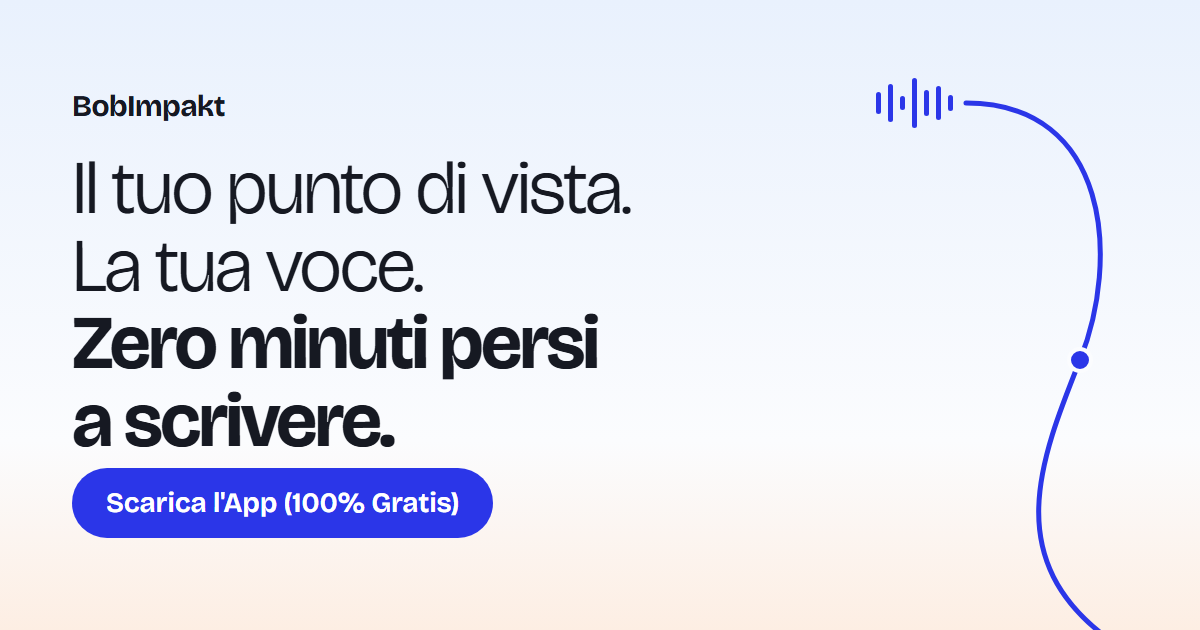
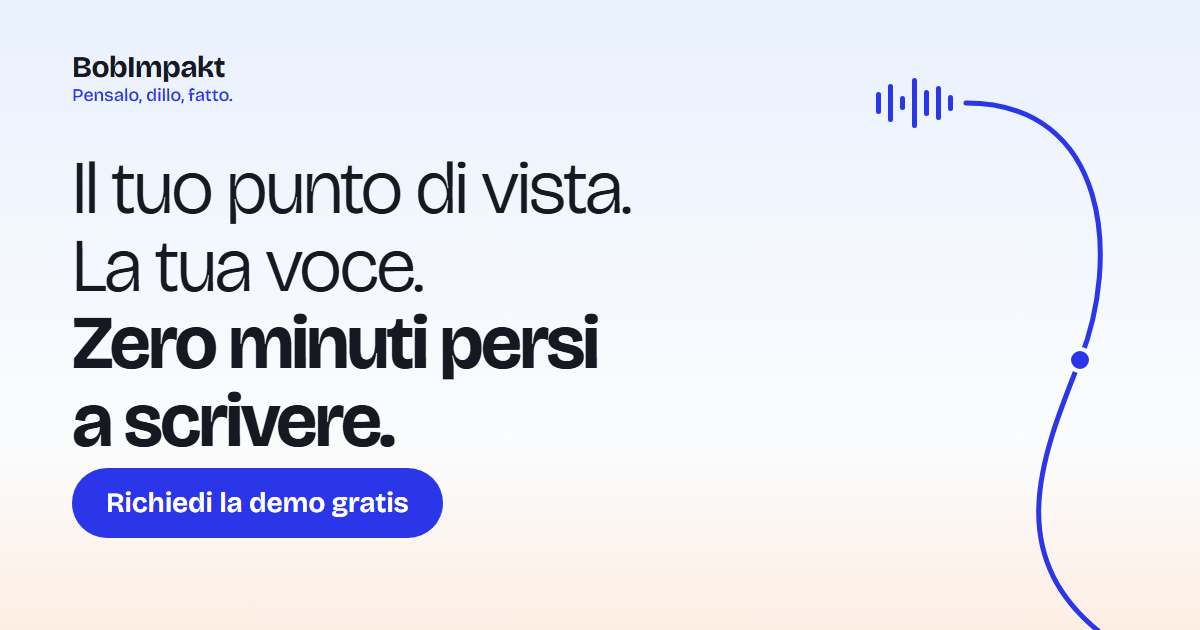
Aggiorna l'anteprima del sito Racconta

Changed region(s): [[0.0925, 0.7238, 0.4317, 0.8746], [0.0617, 0.0905, 0.185, 0.2111]]

diff --git a/index.html b/index.html
@@ -28,13 +28,14 @@
 </svg>
 
 <header class="barra">
-  <a class="marchio" href="./" aria-label="BobImpakt, pagina iniziale">
-    <!-- LOGO: quando arriva il file, sostituire la scritta con <img src="assets/img/logo-bobimpakt.svg" alt="BobImpakt" height="28"> -->
-    BobImpakt
+  <a class="marchio" href="./" aria-label="BobImpakt, Pensalo, dillo, fatto. Pagina iniziale">
+    <!-- LOGO: quando arriva il file, sostituire la scritta BobImpakt con <img src="assets/img/logo-bobimpakt.svg" alt="BobImpakt" height="26"> e lasciare il claim sotto -->
+    <span class="marchio__nome">BobImpakt</span>
+    <span class="marchio__claim">Pensalo, dillo, fatto.</span>
   </a>
   <nav class="barra__nav" aria-label="Pagina">
     <a href="#come-funziona">Come funziona</a>
-    <a class="barra__azione" href="#scarica">Scarica l'App</a>
+    <a class="barra__azione" href="#scarica">Richiedi la demo</a>
   </nav>
 </header>
 
@@ -59,13 +60,13 @@
           <span class="campo__eti">Il tuo numero WhatsApp</span>
           <input name="telefono" type="tel" autocomplete="tel" required maxlength="40" placeholder="Numero WhatsApp">
         </label>
-        <button class="tasto" type="submit">Scarica l'App (100% Gratis)</button>
+        <button class="tasto" type="submit">Richiedi la demo gratis</button>
       </div>
       <label class="modulo__consenso">
         <input name="consenso" type="checkbox" required value="1">
-        <span>Ho letto <a href="#privacy">come uso questi dati</a>: solo per mandarti il link dell'app.</span>
+        <span>Ho letto <a href="#privacy">come uso questi dati</a>: solo per contattarti per la demo.</span>
       </label>
-      <p class="modulo__nota">Ti arriva il link su WhatsApp e lo aggiungi alla schermata Home. Niente store, niente account, niente carta di credito.</p>
+      <p class="modulo__nota">Ti scrivo su WhatsApp e ti preparo la demo. Niente store, niente account, niente carta di credito.</p>
       <p class="modulo__trappola" aria-hidden="true"><label>Lascia vuoto <input type="text" name="azienda" tabindex="-1" autocomplete="off"></label></p>
       <p class="modulo__esito" role="status" aria-live="polite" hidden></p>
     </form>
@@ -174,13 +175,13 @@
         <span class="campo__eti">Il tuo numero WhatsApp</span>
         <input name="telefono" type="tel" autocomplete="tel" required maxlength="40" placeholder="Numero WhatsApp">
       </label>
-      <button class="tasto" type="submit">Scarica l'App (100% Gratis)</button>
+      <button class="tasto" type="submit">Richiedi la demo gratis</button>
     </div>
     <label class="modulo__consenso">
       <input name="consenso" type="checkbox" required value="1">
-      <span>Ho letto <a href="#privacy">come uso questi dati</a>: solo per mandarti il link dell'app.</span>
+      <span>Ho letto <a href="#privacy">come uso questi dati</a>: solo per contattarti per la demo.</span>
     </label>
-    <p class="modulo__nota">Preferisci scrivermi? <a class="whatsapp" href="https://wa.me/39XXXXXXXXXX?text=Ciao%20Roberto%2C%20vorrei%20l%27app%20gratis" target="_blank" rel="noopener" data-numero="39XXXXXXXXXX">Mandami un messaggio su WhatsApp</a>.</p>
+    <p class="modulo__nota">Preferisci scrivermi? <a class="whatsapp" href="https://wa.me/39XXXXXXXXXX?text=Ciao%20Roberto%2C%20vorrei%20la%20demo%20gratis" target="_blank" rel="noopener" data-numero="39XXXXXXXXXX">Mandami un messaggio su WhatsApp</a>.</p>
     <p class="modulo__trappola" aria-hidden="true"><label>Lascia vuoto <input type="text" name="azienda" tabindex="-1" autocomplete="off"></label></p>
     <p class="modulo__esito" role="status" aria-live="polite" hidden></p>
   </form>
@@ -188,11 +189,11 @@
 </main>
 
 <footer class="piede" id="privacy">
-  <p class="piede__motto">Pensalo, dillo, fatto.</p>
-  <p class="piede__firma">BobImpakt · Racconta è sviluppato da Roberto Varriale con la redazione ConSEOlente.</p>
+  <p class="marchio marchio--piede"><span class="marchio__nome">BobImpakt</span><span class="marchio__claim">Pensalo, dillo, fatto.</span></p>
+  <p class="piede__firma">Racconta è sviluppato da Roberto Varriale con la redazione ConSEOlente.</p>
   <div class="piede__privacy">
     <h2 class="piede__titolo">Come uso i tuoi dati</h2>
-    <p>Nome e numero servono solo a mandarti il link dell'app su WhatsApp e, se lo vuoi, a parlarne con te. Non vengono ceduti a nessuno, non finiscono in liste e li cancello quando me lo chiedi. Titolare del trattamento: Roberto Varriale, BobImpakt <span class="da-completare">[indirizzo e email da inserire]</span>.</p>
+    <p>Nome e numero servono solo a contattarti su WhatsApp per la demo e, se lo vuoi, a parlarne con te. Non vengono ceduti a nessuno, non finiscono in liste e li cancello quando me lo chiedi. Titolare del trattamento: Roberto Varriale, BobImpakt <span class="da-completare">[indirizzo e email da inserire]</span>.</p>
   </div>
 </footer>
 

diff --git a/assets/js/racconta.js b/assets/js/racconta.js
@@ -101,17 +101,17 @@
     }, { threshold: .55 }).observe($('.problema__testo', problema));
   }
 
-  /* ---------- i moduli «Scarica l'App» ---------- */
-  var MSG_OK = 'Ricevuto! Ti mando il link dell\'app su WhatsApp: lo apri e lo aggiungi alla schermata Home.';
-  var MSG_ANTEPRIMA = 'Questa è un\'anteprima: qui la richiesta partirebbe e riceveresti il link su WhatsApp. Il modulo funziona quando il sito è online su bobimpakt.it.';
+  /* ---------- i moduli «Richiedi la demo gratis» ---------- */
+  var MSG_OK = 'Ricevuto! Ti scrivo su WhatsApp per la tua demo gratis.';
+  var MSG_ANTEPRIMA = 'Questa è un\'anteprima: qui la richiesta partirebbe e ti scriverei su WhatsApp per la demo. Il modulo funziona quando il sito è online su bobimpakt.it.';
   $$('form[data-modulo]').forEach(function (modulo) {
     var esito = $('.modulo__esito', modulo), nome = $('input[name="nome"]', modulo), tel = $('input[name="telefono"]', modulo), consenso = $('input[name="consenso"]', modulo);
     function mostra(testo, tipo) { esito.hidden = false; esito.textContent = testo; esito.className = 'modulo__esito' + (tipo ? ' is-' + tipo : ''); }
     function controlla() {
       var mancano = [];
       [nome, tel].forEach(function (c) { var vuoto = !String(c.value || '').trim(); c.classList.toggle('is-errato', vuoto); if (vuoto) mancano.push(c); });
-      if (mancano.length) { mostra('Scrivi il tuo nome e il numero WhatsApp: è lì che ti mando il link.', 'errore'); mancano[0].focus(); return false; }
-      if (!consenso.checked) { mostra('Manca la spunta sull\'uso dei dati: serve per poterti mandare il link.', 'errore'); consenso.focus(); return false; }
+      if (mancano.length) { mostra('Scrivi il tuo nome e il numero WhatsApp: è lì che ti scrivo per la demo.', 'errore'); mancano[0].focus(); return false; }
+      if (!consenso.checked) { mostra('Manca la spunta sull\'uso dei dati: serve per poterti contattare.', 'errore'); consenso.focus(); return false; }
       return true;
     }
     modulo.addEventListener('input', function (e) { if (e.target.classList) e.target.classList.remove('is-errato'); });
@@ -138,7 +138,7 @@
   /* ---------- WhatsApp: il numero si imposta in un punto solo (data-numero) ---------- */
   $$('a.whatsapp').forEach(function (wa) {
     var numero = (wa.getAttribute('data-numero') || '').replace(/\D/g, '');
-    var testo = encodeURIComponent('Ciao Roberto, vorrei l\'app gratis di BobImpakt.');
+    var testo = encodeURIComponent('Ciao Roberto, vorrei la demo gratis di BobImpakt.');
     if (numero.length >= 11) { wa.href = 'https://wa.me/' + numero + '?text=' + testo; return; }
     wa.title = 'Numero WhatsApp da impostare (data-numero)';
     wa.addEventListener('click', function (e) {

diff --git a/assets/css/racconta.css b/assets/css/racconta.css
@@ -74,7 +74,11 @@ main, .barra, .piede { position: relative; z-index: 1; }
 
 /* ---------- barra ---------- */
 .barra { display: flex; align-items: center; justify-content: space-between; gap: 24px; padding: 22px var(--gutter); max-width: calc(var(--colonna) + 2 * var(--gutter)); margin: 0 auto; }
-.marchio { font-weight: 700; font-size: 1.375rem; letter-spacing: -.02em; color: var(--inchiostro); text-decoration: none; }
+/* il marchio: BobImpakt con il claim sotto, come un logo */
+.marchio { display: inline-flex; flex-direction: column; align-items: flex-start; gap: 1px; color: var(--inchiostro); text-decoration: none; }
+.marchio__nome { font-weight: 700; font-size: 1.375rem; line-height: 1.05; letter-spacing: -.02em; }
+.marchio__claim { font-weight: 500; font-size: .875rem; line-height: 1.2; letter-spacing: -.005em; color: var(--voce); }
+a.marchio:hover .marchio__nome { color: var(--inchiostro); }
 .barra__nav { display: flex; align-items: center; gap: clamp(14px, 2.5vw, 32px); }
 .barra__nav a { color: var(--inchiostro-2); text-decoration: none; font-size: 1.0625rem; }
 .barra__nav a:hover { color: var(--inchiostro); }
@@ -191,8 +195,10 @@ ins { text-decoration: none; color: var(--inchiostro); background: linear-gradie
 
 /* ---------- piede ---------- */
 .piede { max-width: calc(var(--colonna) + 2 * var(--gutter)); margin: 0 auto; padding: clamp(2.5rem, 6vh, 4rem) var(--gutter) 3rem; color: var(--inchiostro-2); font-size: 1rem; }
-.piede__motto { font-size: clamp(1.6rem, 3vw, 2.25rem); font-weight: 700; letter-spacing: -.03em; color: var(--inchiostro); }
-.piede__firma { margin-top: .4rem; }
+.marchio--piede { margin: 0; gap: 3px; }
+.marchio--piede .marchio__nome { font-size: clamp(1.6rem, 3vw, 2.25rem); letter-spacing: -.03em; }
+.marchio--piede .marchio__claim { font-size: clamp(1rem, 1.4vw, 1.125rem); }
+.piede__firma { margin-top: .8rem; }
 .piede__privacy { margin-top: 1.6rem; padding-top: 1.2rem; border-top: 1px solid rgba(22, 25, 34, .14); max-width: 75ch; font-size: .9375rem; color: #554a44; }
 .piede__titolo { font-size: 1rem; font-weight: 650; color: var(--inchiostro); margin-bottom: .3rem; }
 .da-completare { background: #fff3c4; color: #5c4a00; padding: 0 .3em; border-radius: 4px; }

diff --git a/README.md b/README.md
@@ -2,6 +2,6 @@
 
 Anteprima della pagina «Il tuo punto di vista. La tua voce. Zero minuti persi a scrivere.» Pensalo, dillo, fatto.
 
-Il sito definitivo sarà su bobimpakt.it. In questa anteprima il modulo «Scarica l'App» non invia nulla.
+Il sito definitivo sarà su bobimpakt.it. In questa anteprima il modulo «Richiedi la demo gratis» non invia nulla.
 
 https://varanto835-cloud.github.io/racconta-anteprima/
